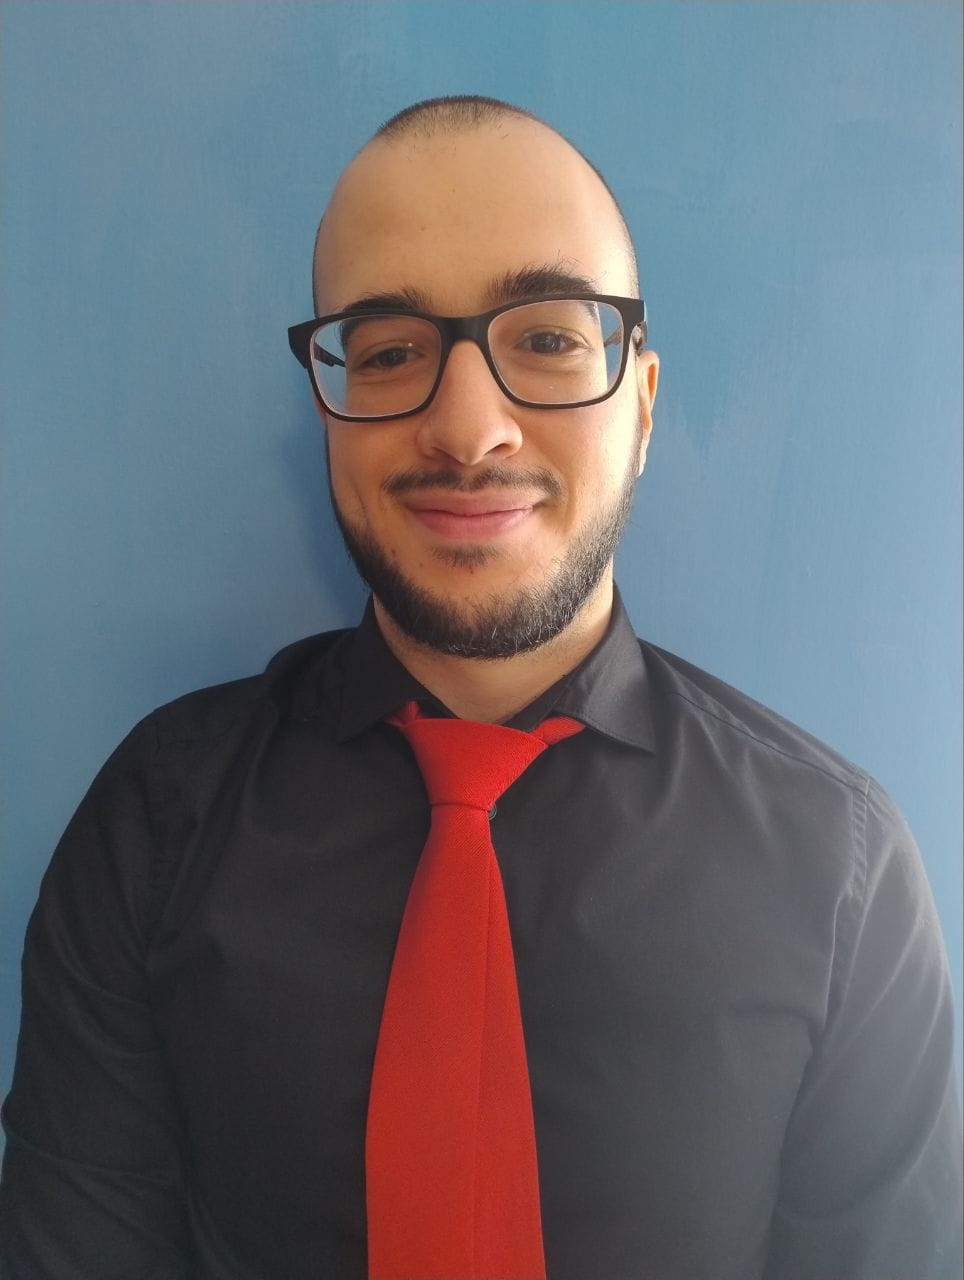
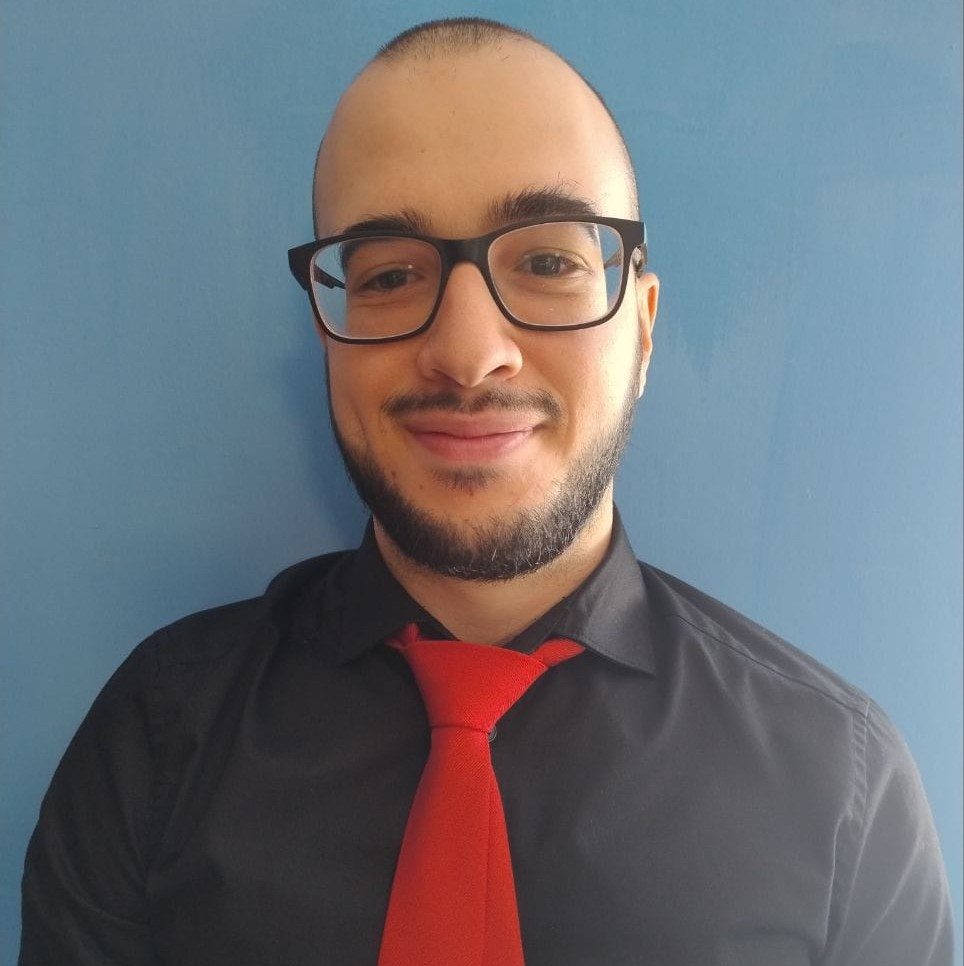
fix: update image

Changed region(s): [[0.0, 0.0, 1.0, 1.0], [0.4668, 0.9938, 0.4979, 1.0], [0.4668, 0.2484, 0.4979, 0.2795]]

diff --git a/assets/css/minimalist-light-theme.css b/assets/css/minimalist-light-theme.css
@@ -70,8 +70,8 @@ a:hover {
 
 /* User Image */
 .user-image {
-  width: 1000px;
-  height: 275px;
+  width: 225px;
+  height: 225px;
   /*-webkit-filter: grayscale(0%); /* Safari 6.0 - 9.0 */
   /*filter: grayscale(0%); */
 }

diff --git a/assets/css/minimalist-dark-theme.css b/assets/css/minimalist-dark-theme.css
@@ -88,8 +88,8 @@ a:hover {
 
 /* User Image */
 .user-image {
-  width: 1000px;
-  height: 275px;
+  width: 225px;
+  height: 225px;
   -webkit-filter: grayscale(100%); /* Safari 6.0 - 9.0 */
   filter: grayscale(100%);
 }
